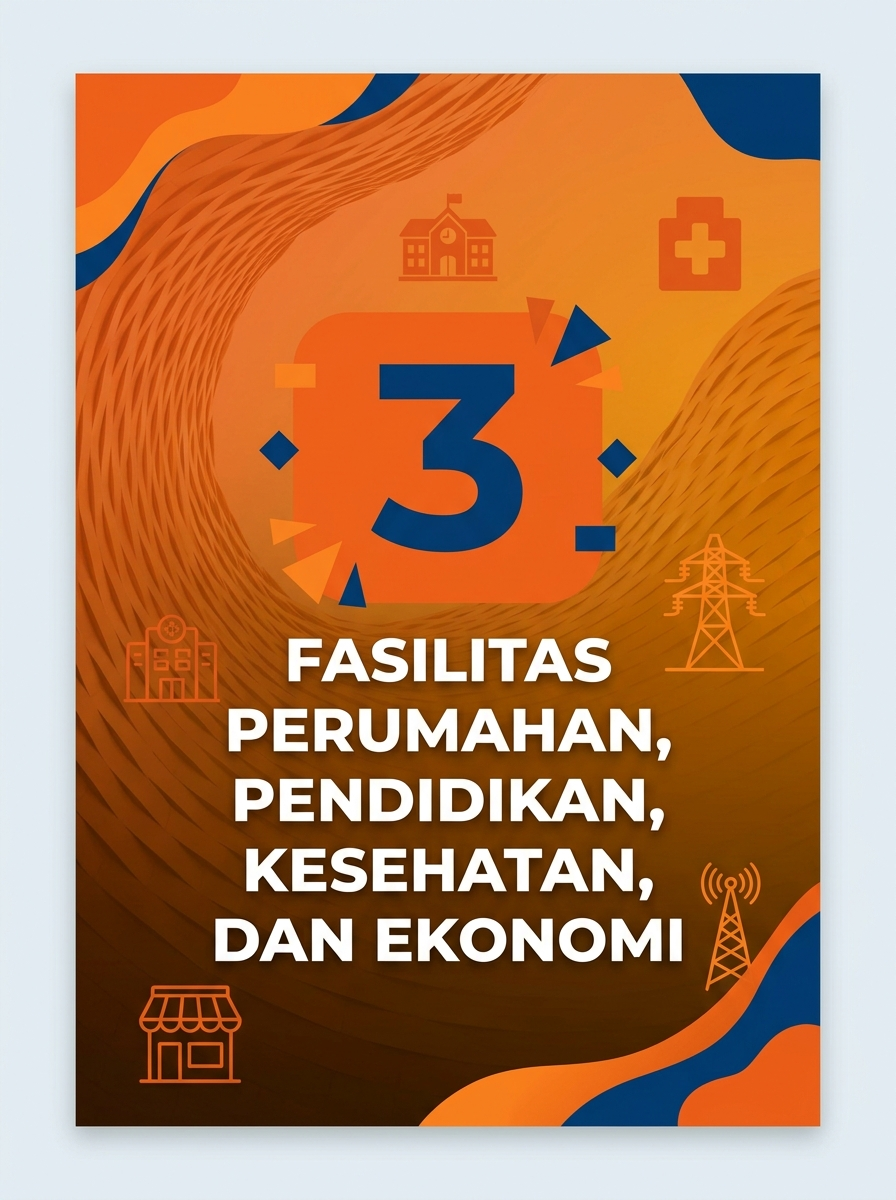
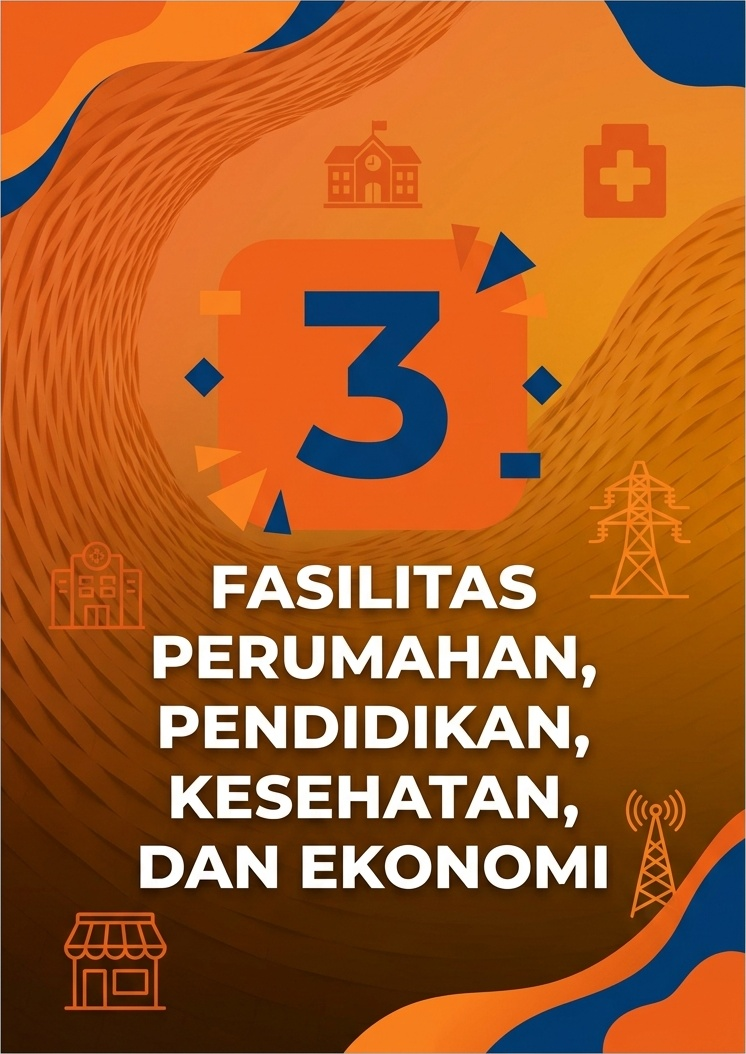
feat(graphics): add descriptive analysis under all 4 graphs + crop white borders from divider-bab1 and create data-rich divider-bab2

diff --git a/Publikasi-Desa/index.html b/Publikasi-Desa/index.html
@@ -386,18 +386,23 @@
       </div>
     </div>
 
-    <!-- Grafik 1 & 2 -->
+    <!-- Grafik 1 -->
     <div style="display: grid; grid-template-columns: 1fr; gap: 20px; margin-bottom: 20px;">
-      <!-- Grafik 1 -->
       <div class="graph-card" style="text-align: center; border: 1px solid #E2E8F0; border-radius: 8px; padding: 10px; background: #FFFFFF;">
         <h3 style="font-size: 0.95rem; color: #034EA2; margin-top: 0; margin-bottom: 8px;">Grafik 1. Jumlah Penduduk per Jaga di Desa Popontolen (2024 vs 2025)</h3>
         <img src="images/grafik-1-penduduk.png" alt="Grafik 1 Jumlah Penduduk per Jaga" style="width: 100%; max-width: 650px; height: auto; display: block; margin: 0 auto;">
+        <p style="font-size: 0.82rem; color: #475569; text-align: justify; margin: 8px 10px 0; line-height: 1.5;">
+          <strong>Analisis:</strong> Grafik menunjukkan distribusi penduduk yang tidak merata di 7 wilayah Jaga. <strong>Jaga 7</strong> mendominasi dengan 488 jiwa (31,1% populasi), jauh melampaui jaga lainnya. Terjadi penurunan populasi dari 1.621 jiwa (2024) menjadi 1.570 jiwa (2025) atau turun 3,1%, dengan penurunan terbesar di Jaga 4 (dari 237 menjadi 207 jiwa). Konsentrasi penduduk di Jaga 7 perlu menjadi perhatian dalam pemerataan layanan publik.
+        </p>
       </div>
 
       <!-- Grafik 2 -->
       <div class="graph-card" style="text-align: center; border: 1px solid #E2E8F0; border-radius: 8px; padding: 10px; background: #FFFFFF;">
         <h3 style="font-size: 0.95rem; color: #034EA2; margin-top: 0; margin-bottom: 8px;">Grafik 2. Distribusi Keluarga Pertanian vs Non-Pertanian per Jaga (2025)</h3>
         <img src="images/grafik-2-pekerjaan.png" alt="Grafik 2 Distribusi Keluarga Pertanian vs Non Pertanian" style="width: 100%; max-width: 650px; height: auto; display: block; margin: 0 auto;">
+        <p style="font-size: 0.82rem; color: #475569; text-align: justify; margin: 8px 10px 0; line-height: 1.5;">
+          <strong>Analisis:</strong> Sektor non-pertanian mendominasi mata pencaharian warga dengan 272 KK (51,0%), sementara sektor pertanian menopang 179 KK (33,6%). <strong>Jaga 7</strong> memiliki konsentrasi petani tertinggi (67 KK), diikuti Jaga 6 (30 KK) dan Jaga 2 (27 KK). Anomali tercatat di <strong>Jaga 5</strong> yang seluruh 56 keluarganya tidak terklasifikasi non-pertanian formal (nilai 0), mengindikasikan pola pekerjaan campuran yang perlu pendataan lebih lanjut.
+        </p>
       </div>
     </div>
 
@@ -407,12 +412,18 @@
       <div class="graph-card" style="text-align: center; border: 1px solid #E2E8F0; border-radius: 8px; padding: 10px; background: #FFFFFF;">
         <h3 style="font-size: 0.95rem; color: #034EA2; margin-top: 0; margin-bottom: 8px;">Grafik 3. Komposisi Gender dan Struktur Kelompok Umur (2025)</h3>
         <img src="images/grafik-3-struktur-umur.png" alt="Grafik 3 Struktur Umur dan Gender" style="width: 100%; max-width: 650px; height: auto; display: block; margin: 0 auto;">
+        <p style="font-size: 0.82rem; color: #475569; text-align: justify; margin: 8px 10px 0; line-height: 1.5;">
+          <strong>Analisis:</strong> Komposisi gender relatif seimbang dengan <em>Sex Ratio</em> 108,2 (816 laki-laki per 754 perempuan). Piramida umur menunjukkan dominasi kelompok usia produktif (15–59 tahun) sebesar <strong>64,4%</strong> (942 jiwa), disusul usia anak-anak 0–14 tahun (21,1%) dan lansia 60+ tahun (14,5%). <em>Dependency Ratio</em> sebesar <strong>55,3%</strong> menandakan bahwa setiap 100 penduduk usia produktif menanggung sekitar 55 jiwa penduduk non-produktif — kondisi bonus demografi yang perlu dimanfaatkan secara optimal.
+        </p>
       </div>
 
       <!-- Grafik 4 -->
       <div class="graph-card" style="text-align: center; border: 1px solid #E2E8F0; border-radius: 8px; padding: 10px; background: #FFFFFF;">
         <h3 style="font-size: 0.95rem; color: #034EA2; margin-top: 0; margin-bottom: 8px;">Grafik 4. Sebaran Fasilitas Ekonomi dan Sarana Pendidikan per Jaga (2025)</h3>
         <img src="images/grafik-4-fasilitas.png" alt="Grafik 4 Fasilitas Ekonomi dan Pendidikan" style="width: 100%; max-width: 650px; height: auto; display: block; margin: 0 auto;">
+        <p style="font-size: 0.82rem; color: #475569; text-align: justify; margin: 8px 10px 0; line-height: 1.5;">
+          <strong>Analisis:</strong> Sebaran fasilitas ekonomi terkonsentrasi di <strong>Jaga 2</strong> (9 unit: 4 minimarket, 1 warung, 4 kelontong) dan <strong>Jaga 3</strong> (6 kelontong), sementara <strong>Jaga 7</strong> — wilayah terpadat — justru tidak memiliki fasilitas ekonomi formal sama sekali. Sarana pendidikan tersebar di 3 jaga: Jaga 1 (TK-S + SD-N), Jaga 5 (TK-S + SD-N), dan Jaga 6 (TK-N + SD-N). Ketimpangan fasilitas antara kepadatan penduduk dan ketersediaan infrastruktur ekonomi di Jaga 7 menjadi isu prioritas pembangunan.
+        </p>
       </div>
     </div>
   </div>

diff --git a/Publikasi-Desa/print.html b/Publikasi-Desa/print.html
@@ -315,18 +315,23 @@
       </div>
     </div>
 
-    <!-- Grafik 1 & 2 -->
+    <!-- Grafik 1 -->
     <div style="display: grid; grid-template-columns: 1fr; gap: 20px; margin-bottom: 20px;">
-      <!-- Grafik 1 -->
       <div class="graph-card" style="text-align: center; border: 1px solid #E2E8F0; border-radius: 8px; padding: 10px; background: #FFFFFF;">
         <h3 style="font-size: 0.95rem; color: #034EA2; margin-top: 0; margin-bottom: 8px;">Grafik 1. Jumlah Penduduk per Jaga di Desa Popontolen (2024 vs 2025)</h3>
         <img src="images/grafik-1-penduduk.png" alt="Grafik 1 Jumlah Penduduk per Jaga" style="width: 100%; max-width: 650px; height: auto; display: block; margin: 0 auto;">
+        <p style="font-size: 0.82rem; color: #475569; text-align: justify; margin: 8px 10px 0; line-height: 1.5;">
+          <strong>Analisis:</strong> Grafik menunjukkan distribusi penduduk yang tidak merata di 7 wilayah Jaga. <strong>Jaga 7</strong> mendominasi dengan 488 jiwa (31,1% populasi), jauh melampaui jaga lainnya. Terjadi penurunan populasi dari 1.621 jiwa (2024) menjadi 1.570 jiwa (2025) atau turun 3,1%, dengan penurunan terbesar di Jaga 4 (dari 237 menjadi 207 jiwa). Konsentrasi penduduk di Jaga 7 perlu menjadi perhatian dalam pemerataan layanan publik.
+        </p>
       </div>
 
       <!-- Grafik 2 -->
       <div class="graph-card" style="text-align: center; border: 1px solid #E2E8F0; border-radius: 8px; padding: 10px; background: #FFFFFF;">
         <h3 style="font-size: 0.95rem; color: #034EA2; margin-top: 0; margin-bottom: 8px;">Grafik 2. Distribusi Keluarga Pertanian vs Non-Pertanian per Jaga (2025)</h3>
         <img src="images/grafik-2-pekerjaan.png" alt="Grafik 2 Distribusi Keluarga Pertanian vs Non Pertanian" style="width: 100%; max-width: 650px; height: auto; display: block; margin: 0 auto;">
+        <p style="font-size: 0.82rem; color: #475569; text-align: justify; margin: 8px 10px 0; line-height: 1.5;">
+          <strong>Analisis:</strong> Sektor non-pertanian mendominasi mata pencaharian warga dengan 272 KK (51,0%), sementara sektor pertanian menopang 179 KK (33,6%). <strong>Jaga 7</strong> memiliki konsentrasi petani tertinggi (67 KK), diikuti Jaga 6 (30 KK) dan Jaga 2 (27 KK). Anomali tercatat di <strong>Jaga 5</strong> yang seluruh 56 keluarganya tidak terklasifikasi non-pertanian formal (nilai 0), mengindikasikan pola pekerjaan campuran yang perlu pendataan lebih lanjut.
+        </p>
       </div>
     </div>
 
@@ -336,12 +341,18 @@
       <div class="graph-card" style="text-align: center; border: 1px solid #E2E8F0; border-radius: 8px; padding: 10px; background: #FFFFFF;">
         <h3 style="font-size: 0.95rem; color: #034EA2; margin-top: 0; margin-bottom: 8px;">Grafik 3. Komposisi Gender dan Struktur Kelompok Umur (2025)</h3>
         <img src="images/grafik-3-struktur-umur.png" alt="Grafik 3 Struktur Umur dan Gender" style="width: 100%; max-width: 650px; height: auto; display: block; margin: 0 auto;">
+        <p style="font-size: 0.82rem; color: #475569; text-align: justify; margin: 8px 10px 0; line-height: 1.5;">
+          <strong>Analisis:</strong> Komposisi gender relatif seimbang dengan <em>Sex Ratio</em> 108,2 (816 laki-laki per 754 perempuan). Piramida umur menunjukkan dominasi kelompok usia produktif (15–59 tahun) sebesar <strong>64,4%</strong> (942 jiwa), disusul usia anak-anak 0–14 tahun (21,1%) dan lansia 60+ tahun (14,5%). <em>Dependency Ratio</em> sebesar <strong>55,3%</strong> menandakan bahwa setiap 100 penduduk usia produktif menanggung sekitar 55 jiwa penduduk non-produktif — kondisi bonus demografi yang perlu dimanfaatkan secara optimal.
+        </p>
       </div>
 
       <!-- Grafik 4 -->
       <div class="graph-card" style="text-align: center; border: 1px solid #E2E8F0; border-radius: 8px; padding: 10px; background: #FFFFFF;">
         <h3 style="font-size: 0.95rem; color: #034EA2; margin-top: 0; margin-bottom: 8px;">Grafik 4. Sebaran Fasilitas Ekonomi dan Sarana Pendidikan per Jaga (2025)</h3>
         <img src="images/grafik-4-fasilitas.png" alt="Grafik 4 Fasilitas Ekonomi dan Pendidikan" style="width: 100%; max-width: 650px; height: auto; display: block; margin: 0 auto;">
+        <p style="font-size: 0.82rem; color: #475569; text-align: justify; margin: 8px 10px 0; line-height: 1.5;">
+          <strong>Analisis:</strong> Sebaran fasilitas ekonomi terkonsentrasi di <strong>Jaga 2</strong> (9 unit: 4 minimarket, 1 warung, 4 kelontong) dan <strong>Jaga 3</strong> (6 kelontong), sementara <strong>Jaga 7</strong> — wilayah terpadat — justru tidak memiliki fasilitas ekonomi formal sama sekali. Sarana pendidikan tersebar di 3 jaga: Jaga 1 (TK-S + SD-N), Jaga 5 (TK-S + SD-N), dan Jaga 6 (TK-N + SD-N). Ketimpangan fasilitas antara kepadatan penduduk dan ketersediaan infrastruktur ekonomi di Jaga 7 menjadi isu prioritas pembangunan.
+        </p>
       </div>
     </div>
   </div>

diff --git a/Publikasi-Desa/sections/grafik-visual.html b/Publikasi-Desa/sections/grafik-visual.html
@@ -34,18 +34,23 @@
       </div>
     </div>
 
-    <!-- Grafik 1 & 2 -->
+    <!-- Grafik 1 -->
     <div style="display: grid; grid-template-columns: 1fr; gap: 20px; margin-bottom: 20px;">
-      <!-- Grafik 1 -->
       <div class="graph-card" style="text-align: center; border: 1px solid #E2E8F0; border-radius: 8px; padding: 10px; background: #FFFFFF;">
         <h3 style="font-size: 0.95rem; color: #034EA2; margin-top: 0; margin-bottom: 8px;">Grafik 1. Jumlah Penduduk per Jaga di Desa Popontolen (2024 vs 2025)</h3>
         <img src="images/grafik-1-penduduk.png" alt="Grafik 1 Jumlah Penduduk per Jaga" style="width: 100%; max-width: 650px; height: auto; display: block; margin: 0 auto;">
+        <p style="font-size: 0.82rem; color: #475569; text-align: justify; margin: 8px 10px 0; line-height: 1.5;">
+          <strong>Analisis:</strong> Grafik menunjukkan distribusi penduduk yang tidak merata di 7 wilayah Jaga. <strong>Jaga 7</strong> mendominasi dengan 488 jiwa (31,1% populasi), jauh melampaui jaga lainnya. Terjadi penurunan populasi dari 1.621 jiwa (2024) menjadi 1.570 jiwa (2025) atau turun 3,1%, dengan penurunan terbesar di Jaga 4 (dari 237 menjadi 207 jiwa). Konsentrasi penduduk di Jaga 7 perlu menjadi perhatian dalam pemerataan layanan publik.
+        </p>
       </div>
 
       <!-- Grafik 2 -->
       <div class="graph-card" style="text-align: center; border: 1px solid #E2E8F0; border-radius: 8px; padding: 10px; background: #FFFFFF;">
         <h3 style="font-size: 0.95rem; color: #034EA2; margin-top: 0; margin-bottom: 8px;">Grafik 2. Distribusi Keluarga Pertanian vs Non-Pertanian per Jaga (2025)</h3>
         <img src="images/grafik-2-pekerjaan.png" alt="Grafik 2 Distribusi Keluarga Pertanian vs Non Pertanian" style="width: 100%; max-width: 650px; height: auto; display: block; margin: 0 auto;">
+        <p style="font-size: 0.82rem; color: #475569; text-align: justify; margin: 8px 10px 0; line-height: 1.5;">
+          <strong>Analisis:</strong> Sektor non-pertanian mendominasi mata pencaharian warga dengan 272 KK (51,0%), sementara sektor pertanian menopang 179 KK (33,6%). <strong>Jaga 7</strong> memiliki konsentrasi petani tertinggi (67 KK), diikuti Jaga 6 (30 KK) dan Jaga 2 (27 KK). Anomali tercatat di <strong>Jaga 5</strong> yang seluruh 56 keluarganya tidak terklasifikasi non-pertanian formal (nilai 0), mengindikasikan pola pekerjaan campuran yang perlu pendataan lebih lanjut.
+        </p>
       </div>
     </div>
 
@@ -55,12 +60,18 @@
       <div class="graph-card" style="text-align: center; border: 1px solid #E2E8F0; border-radius: 8px; padding: 10px; background: #FFFFFF;">
         <h3 style="font-size: 0.95rem; color: #034EA2; margin-top: 0; margin-bottom: 8px;">Grafik 3. Komposisi Gender dan Struktur Kelompok Umur (2025)</h3>
         <img src="images/grafik-3-struktur-umur.png" alt="Grafik 3 Struktur Umur dan Gender" style="width: 100%; max-width: 650px; height: auto; display: block; margin: 0 auto;">
+        <p style="font-size: 0.82rem; color: #475569; text-align: justify; margin: 8px 10px 0; line-height: 1.5;">
+          <strong>Analisis:</strong> Komposisi gender relatif seimbang dengan <em>Sex Ratio</em> 108,2 (816 laki-laki per 754 perempuan). Piramida umur menunjukkan dominasi kelompok usia produktif (15–59 tahun) sebesar <strong>64,4%</strong> (942 jiwa), disusul usia anak-anak 0–14 tahun (21,1%) dan lansia 60+ tahun (14,5%). <em>Dependency Ratio</em> sebesar <strong>55,3%</strong> menandakan bahwa setiap 100 penduduk usia produktif menanggung sekitar 55 jiwa penduduk non-produktif — kondisi bonus demografi yang perlu dimanfaatkan secara optimal.
+        </p>
       </div>
 
       <!-- Grafik 4 -->
       <div class="graph-card" style="text-align: center; border: 1px solid #E2E8F0; border-radius: 8px; padding: 10px; background: #FFFFFF;">
         <h3 style="font-size: 0.95rem; color: #034EA2; margin-top: 0; margin-bottom: 8px;">Grafik 4. Sebaran Fasilitas Ekonomi dan Sarana Pendidikan per Jaga (2025)</h3>
         <img src="images/grafik-4-fasilitas.png" alt="Grafik 4 Fasilitas Ekonomi dan Pendidikan" style="width: 100%; max-width: 650px; height: auto; display: block; margin: 0 auto;">
+        <p style="font-size: 0.82rem; color: #475569; text-align: justify; margin: 8px 10px 0; line-height: 1.5;">
+          <strong>Analisis:</strong> Sebaran fasilitas ekonomi terkonsentrasi di <strong>Jaga 2</strong> (9 unit: 4 minimarket, 1 warung, 4 kelontong) dan <strong>Jaga 3</strong> (6 kelontong), sementara <strong>Jaga 7</strong> — wilayah terpadat — justru tidak memiliki fasilitas ekonomi formal sama sekali. Sarana pendidikan tersebar di 3 jaga: Jaga 1 (TK-S + SD-N), Jaga 5 (TK-S + SD-N), dan Jaga 6 (TK-N + SD-N). Ketimpangan fasilitas antara kepadatan penduduk dan ketersediaan infrastruktur ekonomi di Jaga 7 menjadi isu prioritas pembangunan.
+        </p>
       </div>
     </div>
   </div>

diff --git a/Publikasi-Desa/latex/sections/02_grafik_visual.tex b/Publikasi-Desa/latex/sections/02_grafik_visual.tex
@@ -5,40 +5,48 @@
 \section*{Visualisasi Grafik Statistik Potensi Wilayah}
 \addcontentsline{toc}{section}{Visualisasi Grafik Statistik}
 
-Berikut disajikan visualisasi komparatif data potensi statistik 7 wilayah Jaga di Desa Popontolen:
+Berikut disajikan visualisasi komparatif dan analisis data potensi statistik 7 wilayah Jaga di Desa Popontolen untuk tahun 2024 dan 2025:
 
-\vspace{0.3cm}
+\vspace{0.2cm}
 
-\begin{figure}[htbp]
+\begin{figure}[!htbp]
   \centering
-  \includegraphics[width=0.88\textwidth]{images/grafik-1-penduduk.png}
+  \includegraphics[width=0.85\textwidth]{images/grafik-1-penduduk.png}
   \caption{Jumlah Penduduk per Jaga di Desa Popontolen (Tahun 2024 vs 2025)}
   \label{fig:grafik1}
 \end{figure}
 
-\vspace{0.3cm}
+\noindent\small\textbf{Analisis Deskriptif:} Grafik menunjukkan distribusi penduduk yang tidak merata di 7 wilayah Jaga. \textbf{Jaga 7} mendominasi dengan 488 jiwa (31,1\% dari total populasi desa), jauh melampaui jaga lainnya. Terjadi sedikit penurunan populasi dari 1.621 jiwa (2024) menjadi 1.570 jiwa (2025) atau turun 3,1\%, dengan penurunan terbesar di Jaga 4 (dari 237 menjadi 207 jiwa). Konsentrasi penduduk di Jaga 7 menjadi prioritas utama dalam pemerataan alokasi anggaran dan fasilitas publik desa.
 
-\begin{figure}[htbp]
+\vspace{0.4cm}
+
+\begin{figure}[!htbp]
   \centering
-  \includegraphics[width=0.88\textwidth]{images/grafik-2-pekerjaan.png}
+  \includegraphics[width=0.85\textwidth]{images/grafik-2-pekerjaan.png}
   \caption{Distribusi Keluarga Pertanian vs Non-Pertanian per Jaga (Tahun 2025)}
   \label{fig:grafik2}
 \end{figure}
 
+\noindent\small\textbf{Analisis Deskriptif:} Sektor non-pertanian mendominasi mata pencaharian warga dengan 272 KK (51,0\%), sementara sektor pertanian menopang 179 KK (33,6\%). \textbf{Jaga 7} memiliki konsentrasi petani tertinggi (67 KK), disusul Jaga 6 (30 KK) dan Jaga 2 (27 KK). Anomali tercatat di Jaga 5 yang seluruh 56 keluarganya belum terdata pada sektor non-pertanian formal, mengindikasikan pola mata pencaharian serabutan atau campuran yang memerlukan pembinaan kelembagaan ekonomi desa.
+
 \clearpage
 
-\begin{figure}[htbp]
+\begin{figure}[!htbp]
   \centering
-  \includegraphics[width=0.92\textwidth]{images/grafik-3-struktur-umur.png}
+  \includegraphics[width=0.88\textwidth]{images/grafik-3-struktur-umur.png}
   \caption{Komposisi Gender dan Struktur Kelompok Umur Penduduk (Tahun 2025)}
   \label{fig:grafik3}
 \end{figure}
 
-\vspace{0.3cm}
+\noindent\small\textbf{Analisis Deskriptif:} Komposisi gender relatif seimbang dengan \textit{Sex Ratio} 108,2 (816 laki-laki per 754 perempuan). Struktur umur menunjukkan dominasi kelompok usia produktif (15--59 tahun) yang mencapai \textbf{64,4\%} (942 jiwa), disusul usia anak-anak 0--14 tahun (21,1\%) dan kelompok lanjut usia 60+ tahun (14,5\%). Angka Rasio Ketergantungan (\textit{Dependency Ratio}) sebesar \textbf{55,3\%} menandakan kondisi bonus demografi aktif yang menjadi modal dasar pembangunan Desa Popontolen.
 
-\begin{figure}[htbp]
+\vspace{0.4cm}
+
+\begin{figure}[!htbp]
   \centering
-  \includegraphics[width=0.88\textwidth]{images/grafik-4-fasilitas.png}
+  \includegraphics[width=0.85\textwidth]{images/grafik-4-fasilitas.png}
   \caption{Sebaran Fasilitas Ekonomi dan Sarana Pendidikan per Jaga (Tahun 2025)}
   \label{fig:grafik4}
 \end{figure}
+
+\noindent\small\textbf{Analisis Deskriptif:} Fasilitas ekonomi mikro terkonsentrasi di \textbf{Jaga 2} (9 unit: 4 minimarket, 1 warung, 4 kelontong) dan \textbf{Jaga 3} (6 kelontong). Sebaliknya, \textbf{Jaga 7} sebagai wilayah terpadat belum memiliki fasilitas ekonomi formal. Sarana pendidikan dasar tersebar di 3 lokasi: Jaga 1 (TK Swasta + SD Negeri), Jaga 5 (TK Swasta + SD Negeri), dan Jaga 6 (TK Negeri + SD Negeri). Ketiadaan fasilitas SMP, SMA, dan perbankan menuntut penguatan konektivitas antarwilayah.
